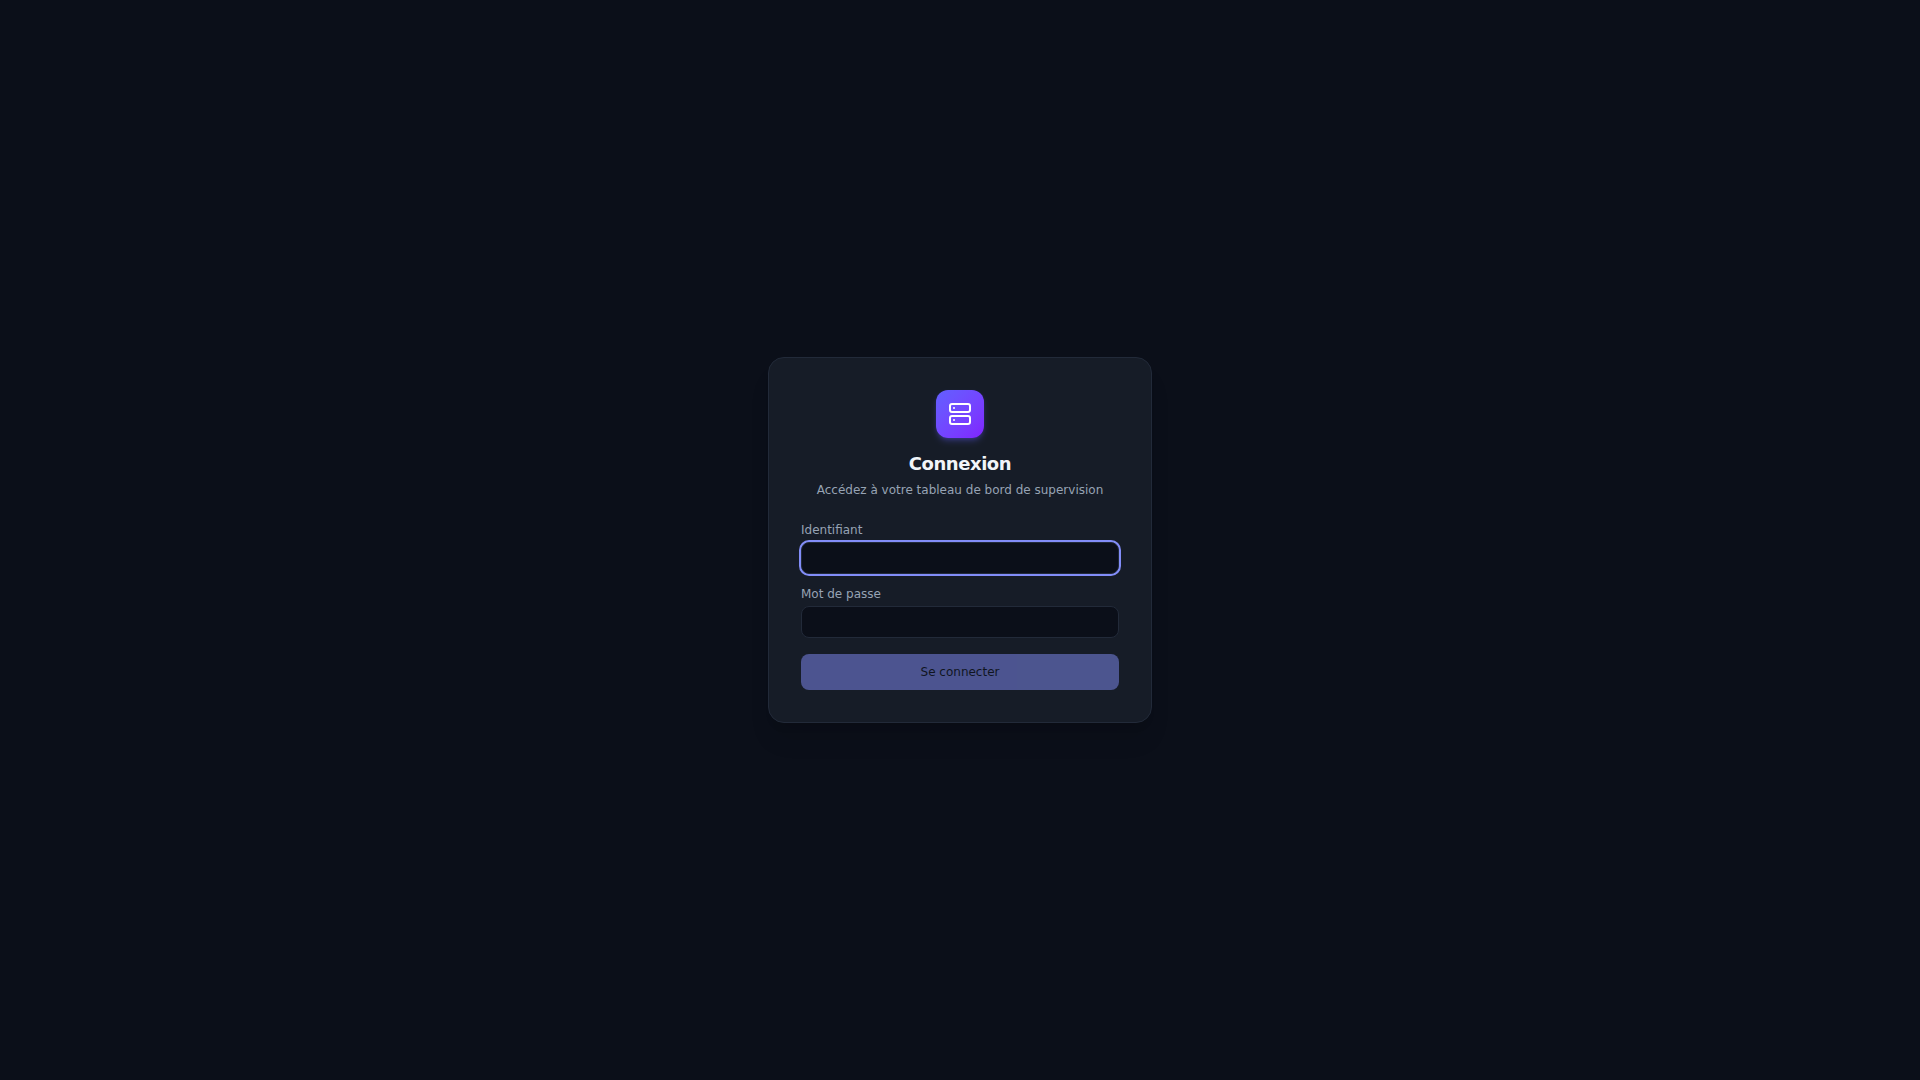
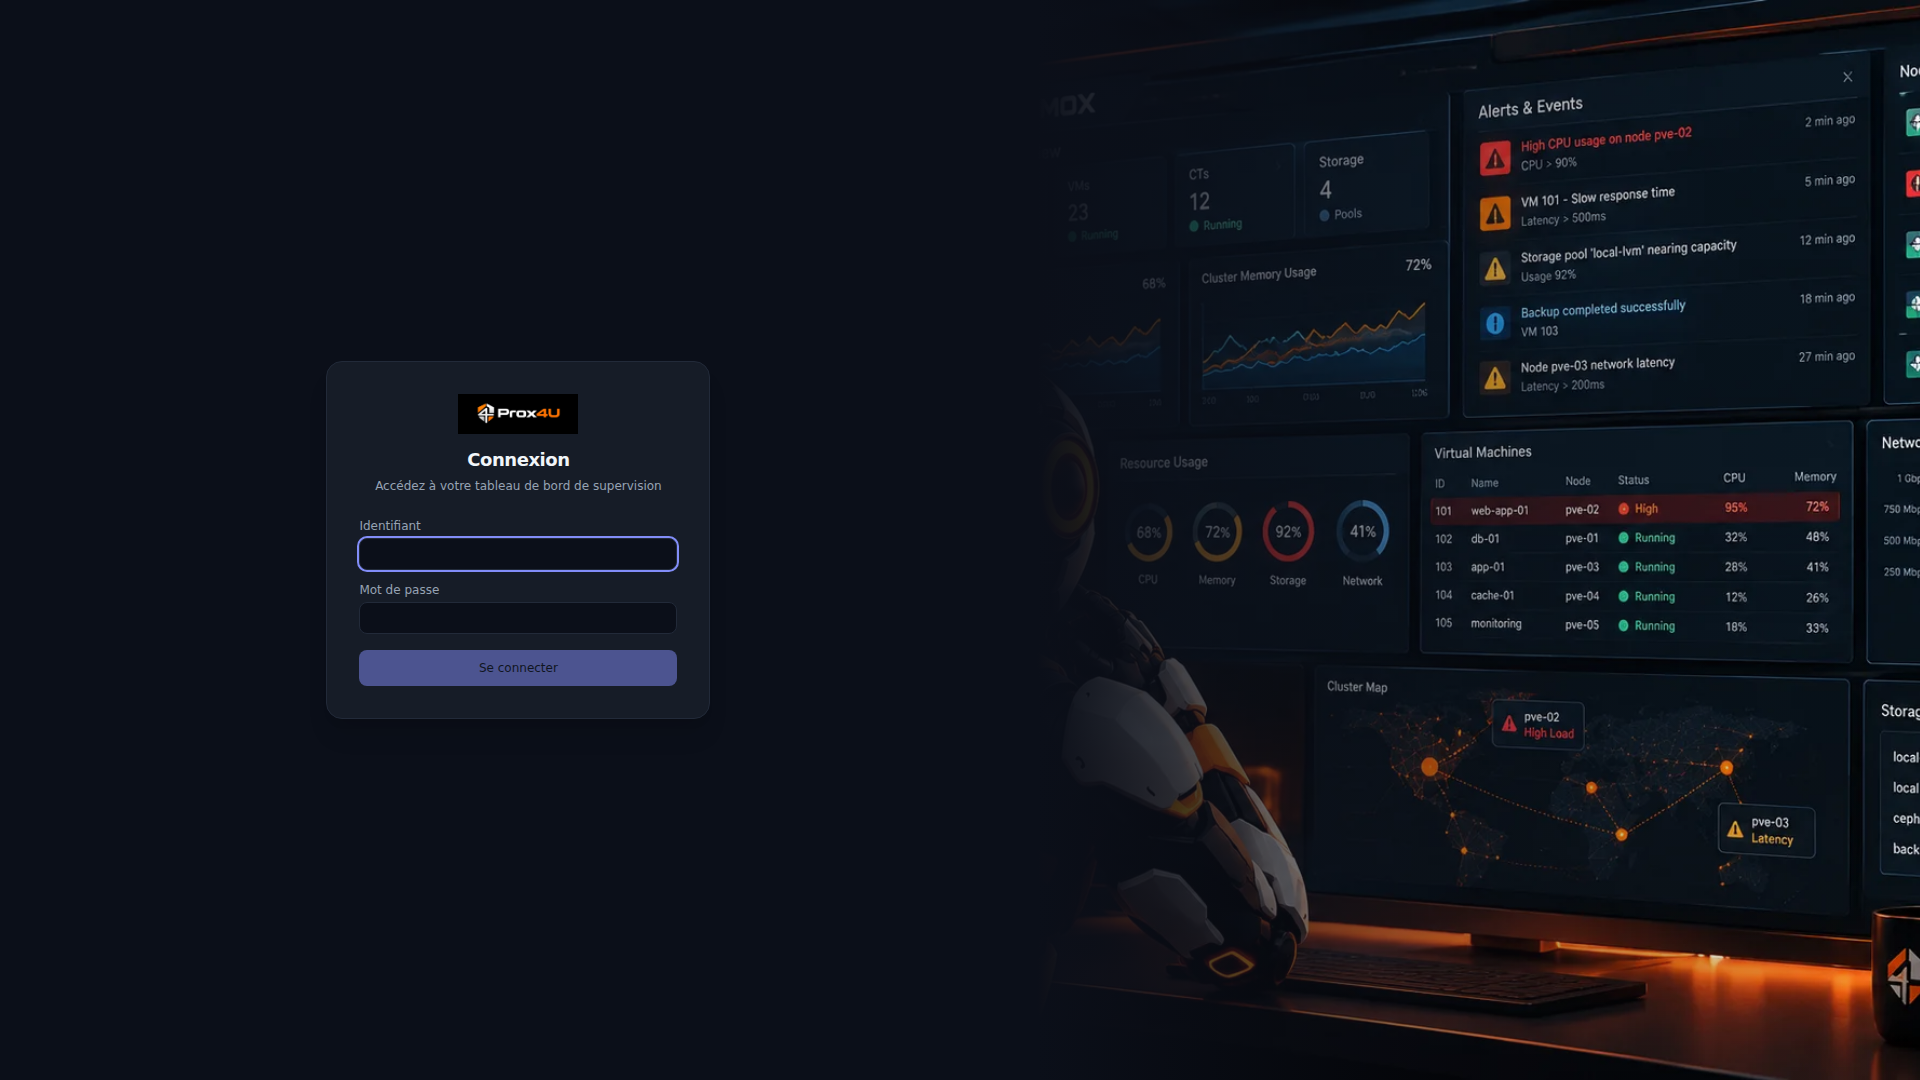
docs(status+skills): identité visuelle Prox4u — section Fait + skill general §5 + capture login
- STATUS.md : section « ✅ Fait — Identité visuelle Prox4u » (assets public/,
  login split-screen, sidebar emblème+mascotte, piège alpha, vérifications,
  renvoi skill site web) + Fichiers clés (public/, images/)
- skills/general §5 Design system : bullet branding (assets WebP, login
  split-screen dark forcé, sidebar fond blanc, sources PNG images/)
- docs/screenshots/login.png : capture rafraîchie (nouveau login split-screen,
  remplace l'ancienne icône Server indigo)

diff --git a/STATUS.md b/STATUS.md
@@ -1927,6 +1927,33 @@ reçoivent le widget en bas par le merge.
   `CAP_NET_RAW` sur les agents (section commentée dans `deploiement/60-telegraf-nodes.sh`)
 - **GPU** : plugin `nvidia-smi` absent des agents (aucune carte NVIDIA sur le parc)
 
+## ✅ Fait — Identité visuelle Prox4u : login robot analyste + wordmark, sidebar emblème + mascotte, favicon (livré, validé navigateur — **commité**)
+
+> 2026-11-14 — Assets de marque fournis par l'utilisateur (PNG dans `images/` à la racine du repo)
+> convertis en WebP et intégrés dans l'app. Commits `f2c7a0d` (web) + `93ebeca` (images sources)
+> + `1b8e5da` (renvoi skill site web), poussés sur `origin/master`.
+
+### Assets (`packages/web/public/` — servis par Vite)
+- `favicon.png` + `apple-touch-icon.png` (emblème bouclier, alpha transparent) — `<link>` dans `packages/web/index.html`
+- `images/logo-emblem.webp` (256×256, alpha propre) — sidebar
+- `images/logo-wordmark.webp` — bandeau login
+- `images/robot-analyst.webp` — page de login (split-screen)
+- `images/robot-cosy-sidebar.webp` (480×480, **image en entier** — l'utilisateur a refusé le recadrage paysage) — sidebar
+
+### Changements
+- **Login** (`pages/login.tsx` + `components/auth/login-form.tsx`) : **split-screen** — formulaire à gauche, robot analyste `object-cover` à droite (masqué `< lg`) ; **mode sombre forcé localement** (classe `.dark` sur le wrapper, indépendant du thème utilisateur) ; bandeau **wordmark** en tête de carte (remplace l'ancienne icône Server indigo).
+- **Sidebar** (`components/layout/sidebar.tsx`) : emblème sur **fond blanc** (`bg-white`) + mascotte cosy complète sous le menu, au-dessus de LIVE.
+- **Piège rencontré** : l'emblème d'abord affiché en « tuile blanche » — le PNG original est déjà RGBA (fond transparent) mais l'alpha seul est illisible sur fond sombre → emblème régénéré (WebP alpha propre) + fond blanc explicite.
+- Sources PNG (10 fichiers, dont doublons de fichiers existants) commitées dans `images/` à la racine.
+
+### Vérifications
+- `pnpm typecheck` + `pnpm build` OK
+- Rendu vérifié en navigateur (sombre/clair/mobile) : login split-screen, sidebar emblème + mascotte, favicon
+- Capture README rafraîchie : `docs/screenshots/login.png` (nouveau login)
+
+### Rattaché — site vitrine (repo séparé)
+- Le site vitrine `www.prox4u.fr` (repo `prox4u_web/prox4u_web`) a sa propre skill : `skills/website/SKILL.md` dans **son** repo — renvoi croisé ajouté dans `skills/README.md` §4.2 (commit `1b8e5da`).
+
 ## ⏳ À faire
 
 ### À tester / à aborder
@@ -2021,5 +2048,7 @@ packages/web/src/pages/{login,profile,admin}/ # auth + admin (3 onglets : catalo
 data/auth.json                                # users/groups/modules/préférences (600, gitignored — comptes migrés de l'ancienne app)
 packages/web/src/hooks/use-echart.ts              # wrapper ECharts (init paresseux)
 packages/web/src/index.css                        # Tailwind v4 + tokens Tremor + @source inline
-skills/                                           # base de connaissance (trackée, livrée en prod) : 12 SKILL.md + README.md (inventaire) — .opencode/skills/ = symlinks locaux
+packages/web/public/                              # assets branding (WebP) : favicon + apple-touch-icon + images/ (emblème, wordmark, robots) — servis par Vite
+images/                                           # sources PNG mascottes/logo (commitées) — sources des WebP de public/ et du site vitrine
+skills/                                           # base de connaissance (trackée, livrée en prod) : 12 SKILL.md + README.md (inventaire, renvoi vers la skill `website` du repo prox4u_web) — .opencode/skills/ = symlinks locaux
 ```
